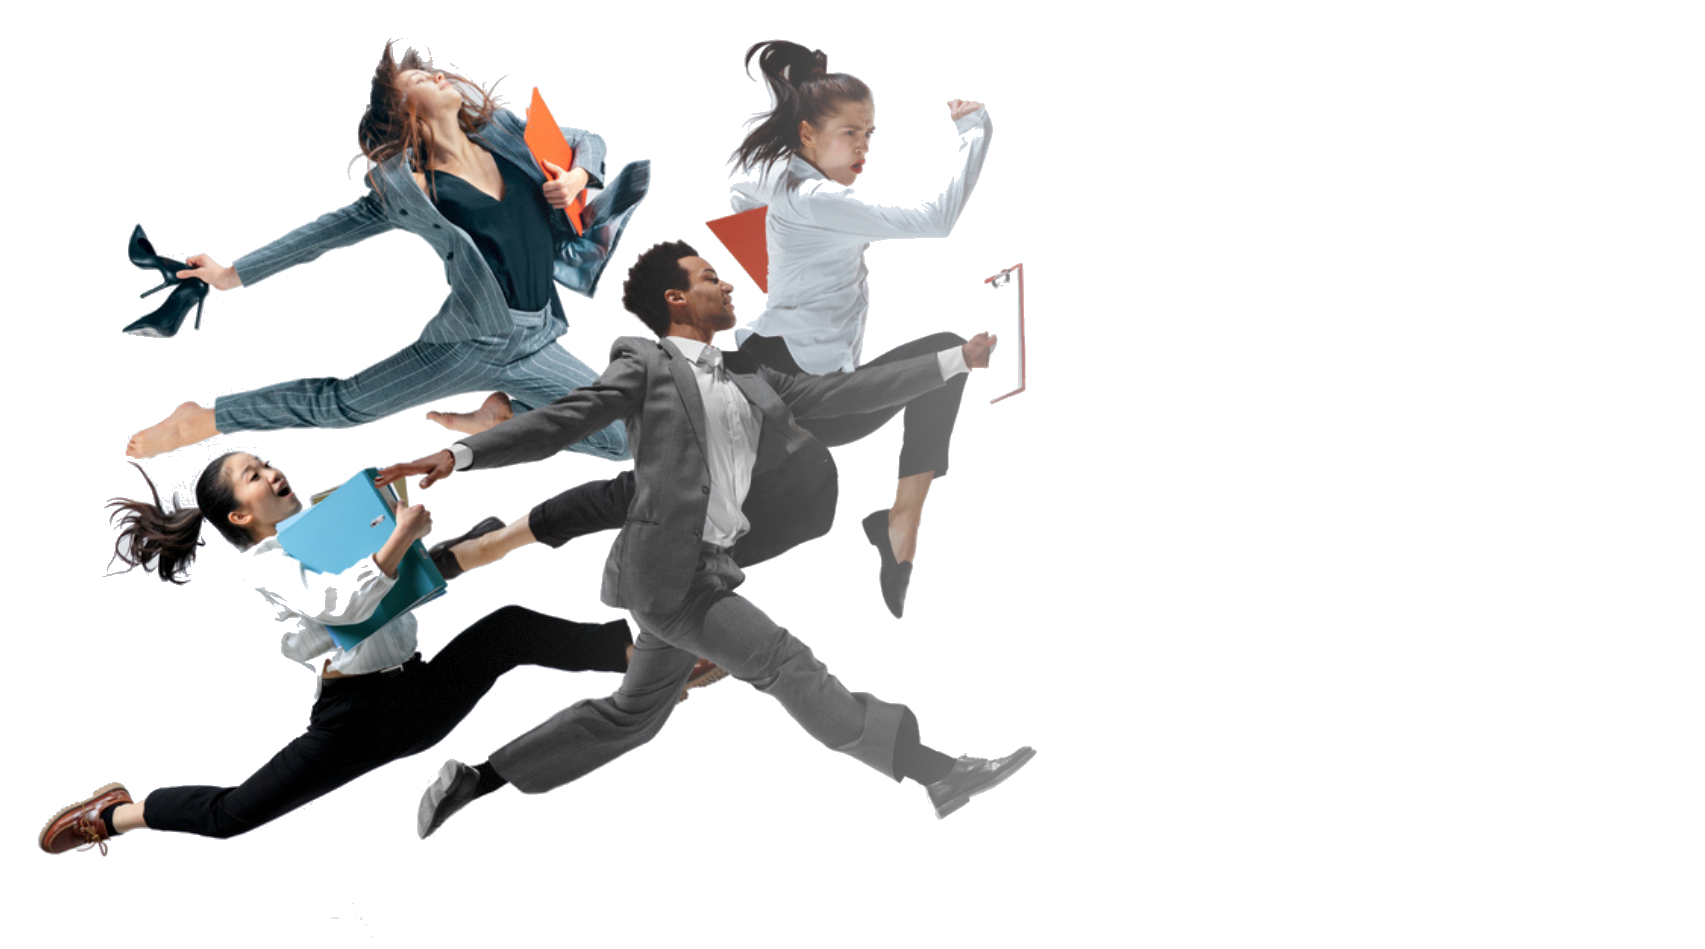
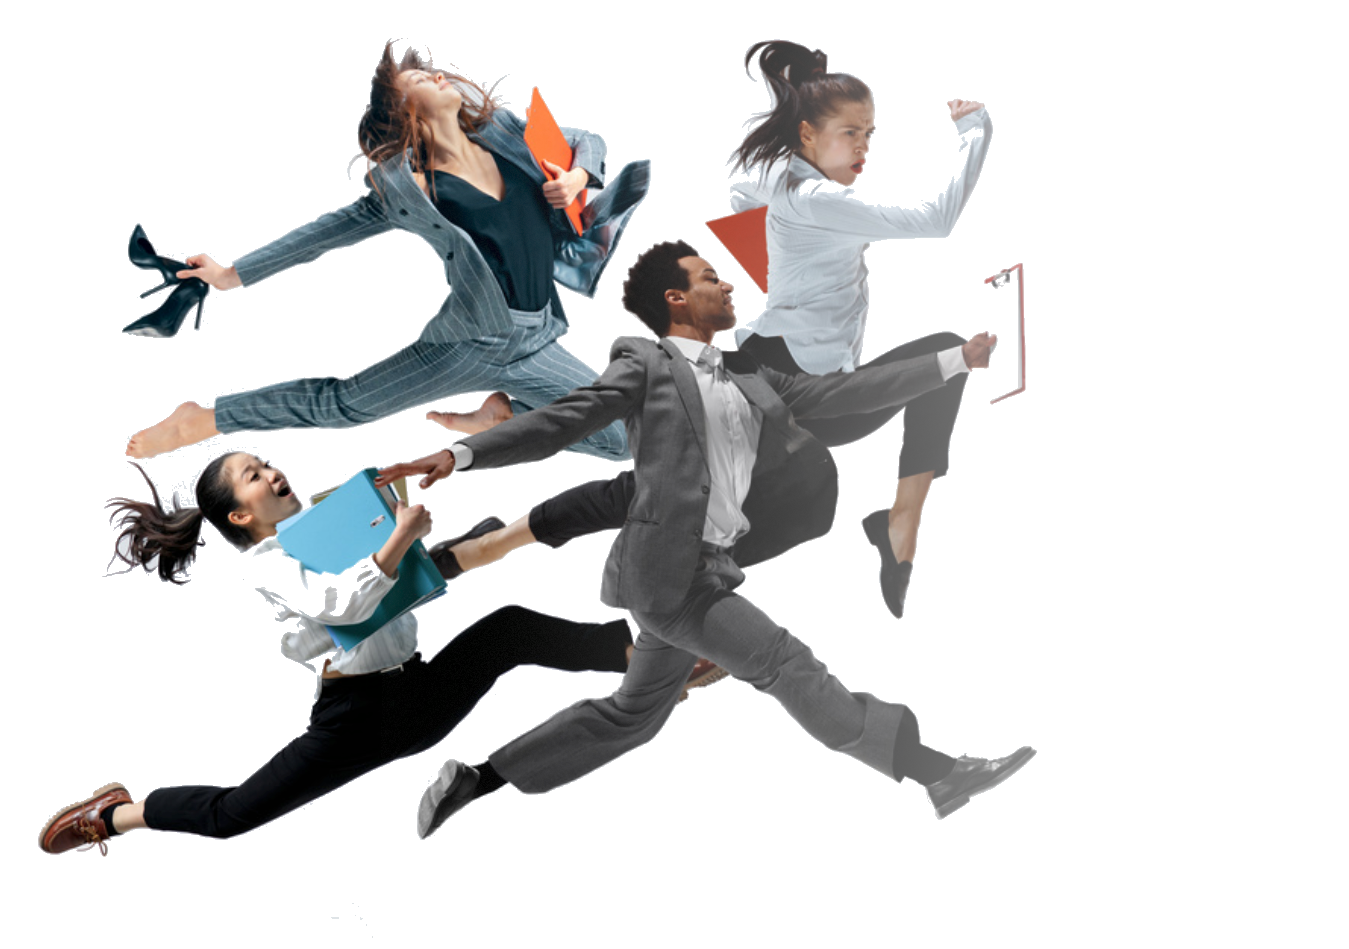
work on home page design2

diff --git a/public/javascripts/graphicsGoogle.js b/public/javascripts/graphicsGoogle.js
@@ -1,5 +1,5 @@
 //MAPA TASA PARO
-google.load('visualization', '1', { 'packages': ['geochart'] });
+google.load('visualization', { 'packages': ['geochart'] });
      google.setOnLoadCallback(drawMarkersMap1);
 
     function drawMarkersMap1() {
@@ -28,10 +28,20 @@ google.load('visualization', '1', { 'packages': ['geochart'] });
 
       var chart = new google.visualization.GeoChart(document.getElementById('chart_div'));
       chart.draw(data, options);
+
+      function resizeHandler () {
+            chart.draw(data, options);
+        }
+        if (window.addEventListener) {
+            window.addEventListener('resize', resizeHandler, false);
+        }
+        else if (window.attachEvent) {
+            window.attachEvent('onresize', resizeHandler);
+        }
 };
 
 //MAPA HABILIDADES
-google.load('visualization', '2', { 'packages': ['geochart'] });
+google.load('visualization', { 'packages': ['geochart'] });
      google.setOnLoadCallback(drawMarkersMap);
 
     function drawMarkersMap() {
@@ -73,6 +83,16 @@ google.load('visualization', '2', { 'packages': ['geochart'] });
 
       var chart = new google.visualization.GeoChart(document.getElementById('chart_hab'));
       chart.draw(data, options);
+
+      function resizeHandler () {
+            chart.draw(data, options);
+        }
+        if (window.addEventListener) {
+            window.addEventListener('resize', resizeHandler, false);
+        }
+        else if (window.attachEvent) {
+            window.attachEvent('onresize', resizeHandler);
+        }
 };
 
 //SANKEY HABILIDADES
@@ -106,13 +126,25 @@ google.charts.load('current', {'packages':['sankey']});
 
         // Sets chart options.
         var options = {
-          width: 900,
-          height: 600,
+          width: 650,
+          height: 500,
         };
 
         // Instantiates and draws our chart, passing in some options.
         var chart = new google.visualization.Sankey(document.getElementById('sankey_basic'));
         chart.draw(data, options);
+
+        function resizeHandler () {
+            chart.draw(data, options);
+        }
+        if (window.addEventListener) {
+            window.addEventListener('resize', resizeHandler, false);
+        }
+        else if (window.attachEvent) {
+            window.attachEvent('onresize', resizeHandler);
+        }
       }
+
+
 
 

diff --git a/public/css/style.css b/public/css/style.css
@@ -144,6 +144,10 @@ body, html{
     margin-bottom: 3rem;
 }
 
+.height-p{
+    line-height: 2rem;
+}
+
 .login > h1 {
     margin: 50px 0 30px 0;
 }
@@ -363,6 +367,10 @@ iframe {
     margin: 20px auto;
 }
 
+#sankey_basic{
+    padding-left: 5rem;
+}
+
 img {
     width: 25%;
 }
@@ -373,8 +381,12 @@ img {
     margin: 20px;
 }
 
+.info-graphics{
+    padding-top: 1rem;
+}
+
 .first_img {
-   width: 50rem;
+   width: 100%;
 }
 
 .second_img {
